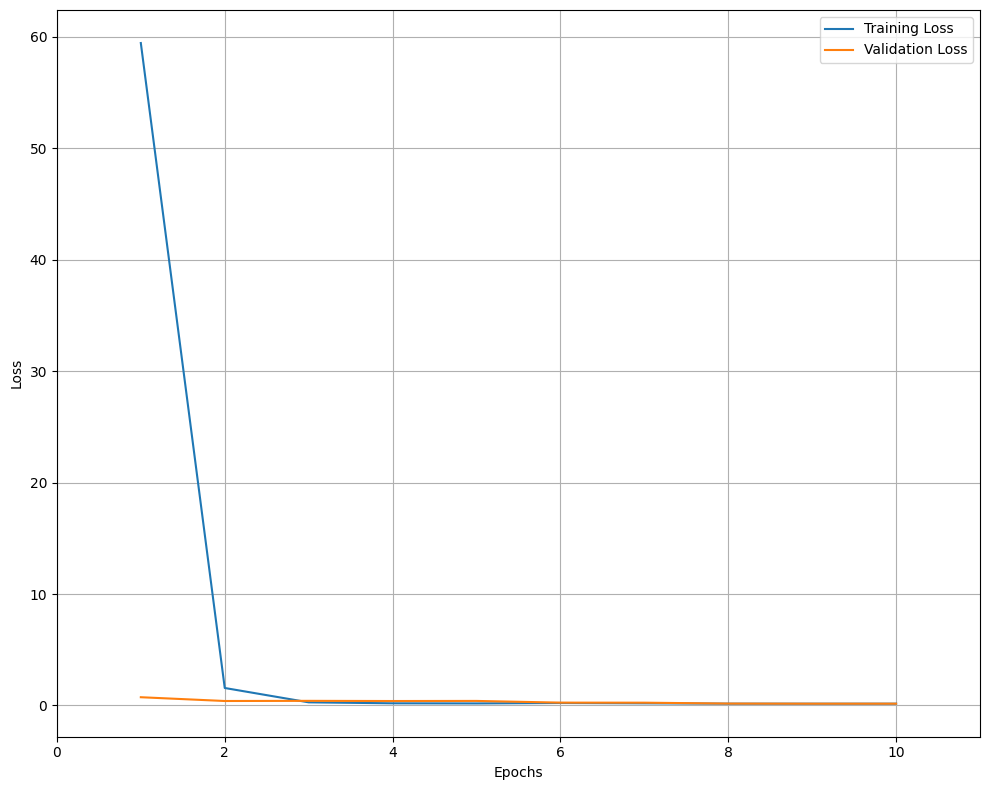
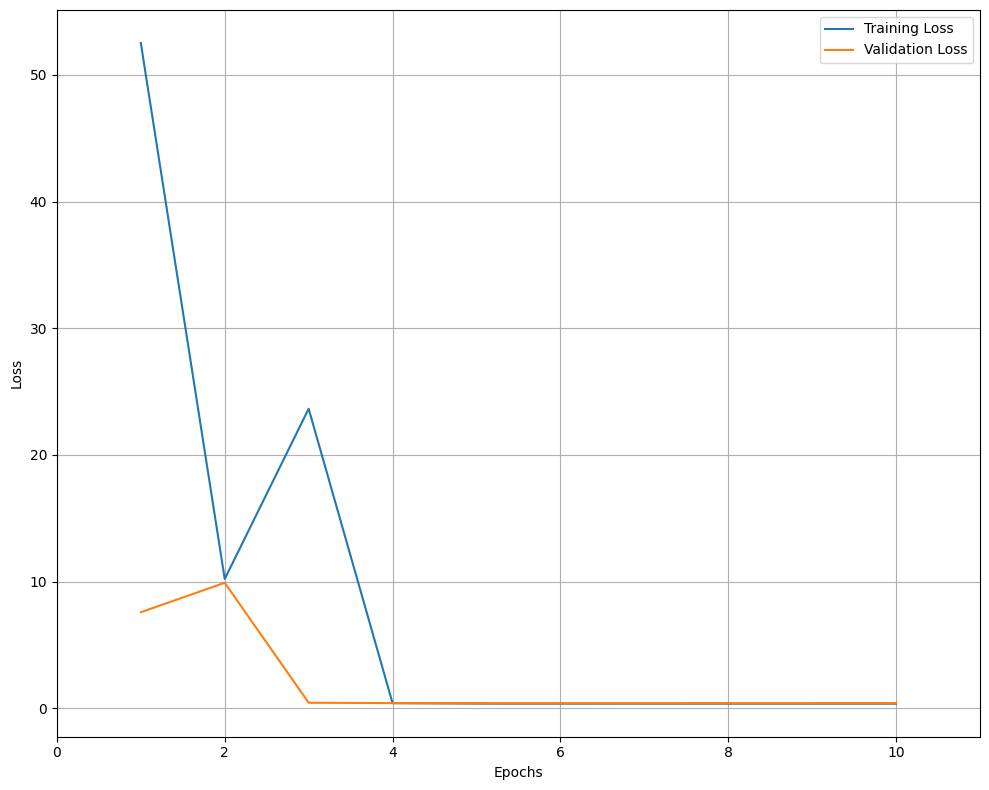
.

diff --git a/training.py b/training.py
@@ -7,6 +7,7 @@ import torch.nn as nn
 import numpy as np
 from training_imports import *
 from NeuralArchitectures import CustomMLP, CNN1D
+from sklearn.metrics import classification_report
 
 BATCH_SIZE = 32
 
@@ -84,14 +85,16 @@ def fit(epochs, lr, model, train_dl, val_dl, criterion, opt_func=torch.optim.Ada
     return model, avg_train_losses, avg_valid_losses
 
 
-def generate_batches(X_train, y_train, X_val, y_val):
+def generate_batches(X_train, y_train, X_val, y_val, X_test, y_test):
     train_ds = TensorDataset(X_train, y_train)
     val_ds = TensorDataset(X_val, y_val)
+    test_ds = TensorDataset(X_test, y_test)
 
     train_dl = DataLoader(train_ds, batch_size=BATCH_SIZE, shuffle=False)
     val_dl = DataLoader(val_ds, batch_size=BATCH_SIZE, shuffle=False)
+    test_dl = DataLoader(test_ds, batch_size=BATCH_SIZE, shuffle=False)
 
-    return train_dl, val_dl
+    return train_dl, val_dl, test_dl
 
 
 if __name__ == "__main__":
@@ -106,7 +109,6 @@ if __name__ == "__main__":
     learning_rate = 0.01
 
     # Função de Custo - BCELoss()??
-    # loss_fn = nn.CrossEntropyLoss()
     loss_fn = nn.BCEWithLogitsLoss()
 
     # Hiperparams definidos de forma arbitrária -> Impactam diretamente na potência e no tempo de treinamento
@@ -134,14 +136,14 @@ if __name__ == "__main__":
         current_directory, "labels_and_data", "labels", position)
 
     input_shape, num_labels, X_train, y_train, X_val, y_val, X_test, y_test, = collect_datasets_from_input(
-        position, label_type, scenario, neural_network_type, label_dir, data_dir)
+        position, label_type, scenario, label_dir, data_dir)
 
     # --------------------------------------------------------------------------------------------------------------------
     # Coleta de uma pequena amostra do dataset para treinamento parcial
-    i_train = -1
-    i_val = -1
-    X_train, y_train = X_train[:i_train], y_train[:i_train]
-    X_val, y_val = X_val[:i_val], y_val[:i_val]
+    # i_train = -1
+    # i_val = -1
+    # X_train, y_train = X_train[:i_train], y_train[:i_train]
+    # X_val, y_val = X_val[:i_val], y_val[:i_val]
     # --------------------------------------------------------------------------------------------------------------------
 
     print("Datasets | Labels")
@@ -150,25 +152,28 @@ if __name__ == "__main__":
     print(f"Teste: {X_test.shape} | {y_test.shape}")
 
     # Formação dos batches a partir dos datasets
-    train_dl, val_dl = generate_batches(X_train, y_train, X_val, y_val)
+    train_dl, val_dl, test_dl = generate_batches(
+        X_train, y_train, X_val, y_val, X_test, y_test)
 
     # Definição da Rede Neural
-    # model = CNN1D(
-    #     # Comprimento das features
-    #     # Representa 5s de registros de movimentos (450 para os punhos, 1020 para o peito)
-    #     input_shape=input_shape,
+    model = None
+    if neural_network_type == "MLP":
+        model = CustomMLP(input_shape)
+    else:
+        model = CNN1D(
+            # Comprimento das janela
+            input_shape=input_shape,
+            # "n_conv_layers" Sessões de convolução que duplica o nº de canais a partir da 2ª camada
+            n_conv_layers=n_conv_layers,
+            first_conv_layer_size=first_conv_layer_size,
+            # "n_conv_layers" Sessões de camadas densas que reduzem em 30% o nº de canais a partir da 2ª camada
+            num_dense_layers=num_dense_layers,
+            first_dense_layer_size=first_dense_layer_size,
+            num_labels=num_labels  # A depender de uma classificação binária ou multiclasse
+        )
 
-    #     # "n_conv_layers" Sessões de convolução que duplica o nº de canais a partir da 2ª camada
-    #     n_conv_layers=n_conv_layers,
-    #     first_conv_layer_size=first_conv_layer_size,
-
-    #     # "n_conv_layers" Sessões de camadas densas que reduzem em 30% o nº de canais a partir da 2ª camada
-    #     num_dense_layers=num_dense_layers,
-    #     first_dense_layer_size=first_dense_layer_size,
-    #     num_labels=num_labels  # A depender de uma classificação binária ou multiclasse
-    # )
-
-    model = CustomMLP(input_shape)
+    if model is None:
+        exit(1)
 
     # DEBUG
     if debug:
@@ -176,10 +181,11 @@ if __name__ == "__main__":
         print(model)
         print("-"*90)
 
-    # exit()
     # Treinamento própriamente dito
     model, train_loss, valid_loss = fit(epochs, learning_rate, model,
                                         train_dl, val_dl, loss_fn)
+
+    # TODO: Implementar rotina de armazenar de: gráfico de loss, métricas no conjunto de teste e modelo treinado. 
 
     # Plotagem do gráfico de perda
     category = "bin" if num_labels == 2 else "multi"
@@ -189,7 +195,32 @@ if __name__ == "__main__":
     plot_loss_curve(train_loss, valid_loss,
                     neural_network_results_dir, plot_filename)
 
-    print(f"Gráfico de Perda gerado com sucesso. (Verifique o diretório {neural_network_results_dir})")
-    
-    
-    
+    print(
+        f"Gráfico de Perda gerado com sucesso.\t(Verifique o diretório {neural_network_results_dir})")
+
+    model.eval()
+
+    # Listas para armazenar todos os rótulos verdadeiros e predições
+    all_labels = []
+    all_predictions = []
+
+    # Desativa o cálculo de gradiente para economizar memória e tempo
+    with torch.no_grad():
+        for inputs, labels in test_dl:  # `train_loader` é o DataLoader do dataset de treino
+            outputs = model(inputs.float())
+
+            # Aplica a função sigmoide para transformar os logits em probabilidades
+            probabilities = torch.sigmoid(outputs.squeeze())
+
+            # Define um limiar para converter probabilidades em predições binárias
+            # 1 se >= 0.5, caso contrário 0
+            predicted = (probabilities >= 0.5).int()
+
+            # Armazena as predições e os rótulos verdadeiros
+            all_predictions.extend(predicted.numpy())
+            all_labels.extend(labels.numpy())
+
+    # Calcula e exibe o relatório de classificação
+    report = classification_report(all_labels, all_predictions)
+    print("Relatório de classificação no dataset de treino:")
+    print(report)

diff --git a/NeuralArchitectures.py b/NeuralArchitectures.py
@@ -1,8 +1,9 @@
 import torch
 import torch.nn as nn
 
+
 class CNN1D(nn.Module):
-    def __init__(self, input_shape, n_conv_layers, first_conv_layer_size,  num_dense_layers, first_dense_layer_size,  num_labels):
+    def __init__(self, input_shape, n_conv_layers, first_conv_layer_size,  num_dense_layers, first_dense_layer_size,  num_labels=2):
         super(CNN1D, self).__init__()
 
         # filter_size = 50
@@ -15,6 +16,7 @@ class CNN1D(nn.Module):
         # decision_threshold = 0.5
 
         self.conv_layer = nn.ModuleList()
+        
         # Hiperparametros definidos de forma fixa
         self.kernel_size = 3
         self.dropout_rate = 0.3
@@ -103,39 +105,40 @@ class CNN1D(nn.Module):
         # print("Argmax:", x.shape)
         return x
 
-class CustomMLP(nn.Module):
-    def __init__(self, input_shape,  num_labels=1):
-        super(CustomMLP, self).__init__()
-        self.layers = nn.ModuleList()
-        
-        # Recebe como entrada input_shape tuple(N_observ, N_vari)
-        
-        # Caso Multivariado (N_vari > 1) - Add um flatten
-        if input_shape[1] > 1:
-            self.layers.append(nn.Flatten())
-        
-        input_shape = input_shape[0] * input_shape[1]
-        
-        
-        
-        for i in range(2):
-            self.layers.append(nn.Linear(in_features=input_shape, out_features=input_shape*2))
-            input_shape *= 2
-            
-        # for i in range(7):
-        #     self.layers.append(
-        #         nn.Linear(in_features=input_shape, out_features=input_shape//2))
-        #     input_shape //= 2
 
-		# Classificação binária -> Saida em um único neurônio
+class CustomMLP(nn.Module):
+    def __init__(self, input_shape, num_asc_layers=2, num_desc_layers=1, num_labels=1):
+        super(CustomMLP, self).__init__()
+        
+        # Taxa de crescimento entre camadas
+        self.asc_factor = 2
+        # Taxa de decrescimento entre camadas
+        self.desc_factor = 3
+        
+        self.layers = nn.ModuleList()
+
+        # Recebe como entrada input_shape tuple(N_observ, N_vari)
+        # Caso Multivariado (N_vari > 1) - Add um flatten
+        if input_shape[1] > 1: self.layers.append(nn.Flatten())
+
+        input_shape = input_shape[0] * input_shape[1]
+
+        for i in range(num_asc_layers):
+            self.layers.append(
+                nn.Linear(in_features=input_shape, out_features=input_shape * self.asc_factor))
+            input_shape *= self.asc_factor
+
+        for i in range(num_desc_layers):
+            self.layers.append(nn.Linear(in_features=input_shape, out_features=input_shape // self.desc_factor))
+            input_shape //= self.desc_factor
+
+            # Classificação binária -> Saida em um único neurônio
         self.output_layer = nn.Linear(in_features=input_shape, out_features=num_labels)
 
     def forward(self, x):
 
         for i, layer in enumerate(self.layers):
             x = nn.functional.relu(layer(x))
-            # x = layer(x)
-            
         x = self.output_layer(x)
 
         return x

diff --git a/training_imports.py b/training_imports.py
@@ -36,12 +36,10 @@ def generate_datasets(data: str = None, label: str = None):
     X = torch.from_numpy(X)
     y = torch.from_numpy(y)
 
-    # 40% para treinamento
-    X_train, X_test, y_train, y_test = train_test_split(
-        X, y, test_size=0.4, random_state=42)
-    # 30% + 30% para validação e teste
-    X_test, X_val, y_test, y_val = train_test_split(
-        X_test, y_test, test_size=0.5, random_state=42)
+    # 60% para treinamento
+    X_train, X_test, y_train, y_test = train_test_split(X, y, train_size=0.6, random_state=101)
+    # 20% + 20% para validação e teste
+    X_test, X_val, y_test, y_val = train_test_split(X_test, y_test, test_size=0.4, random_state=101)
 
     # É necessário "pivotar" o datset devido a forma como o pytorch interpreta as camadas dos tensores ([batch, features, passo_de tempo])
     X_train = torch.permute(X_train, (0, 2, 1))
@@ -113,7 +111,7 @@ def parse_input():
     return args.position, args.label_type, args.scenario, args.neural_network_type, args.n_conv, args.n_dense
 
 
-def collect_datasets_from_input(position, target_type, scenario, neural_network_type, label_dir, data_dir):
+def collect_datasets_from_input(position, target_type, scenario, label_dir, data_dir):
 
     array_size = array_sizes[position]
 
